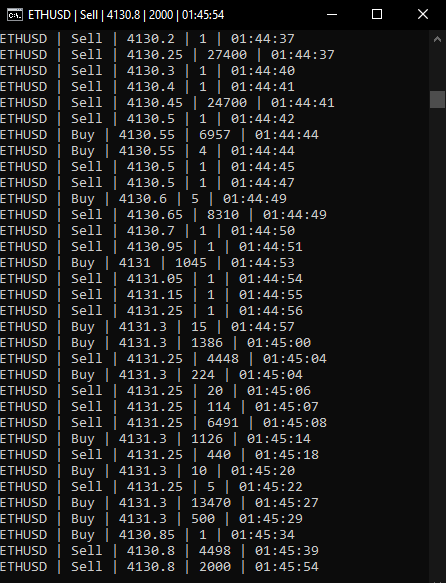
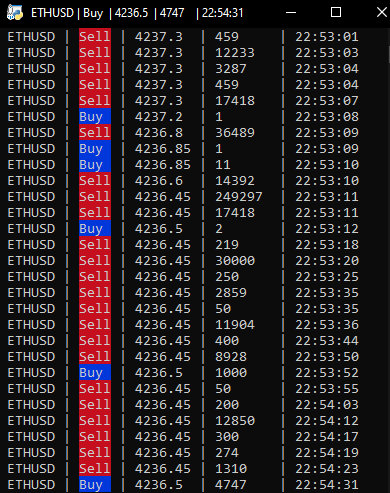
Added color to sides

diff --git a/timeofsales.py b/timeofsales.py
@@ -3,16 +3,12 @@ import json
 import pandas as pd
 import time
 import ctypes
-# import colorama
-# from colorama import Fore, init
+from colorama import init, Back
 
+init() # Colorama init
+
+# API URL
 url = "https://api.bybit.com/v2/public/trading-records?symbol=ETHUSD"
-
-payload={}
-headers = {}
-
-i = 0
-
 class Latest_Data:
         def __init__(self, id, ticker, price, qty, side, time):
             self.id = id
@@ -22,12 +18,27 @@ class Latest_Data:
             self.side = side
             self.time = time
         
-        def display(self):
-            display = (f" {self.ticker} | {self.side: <4} | {self.price: <7} | {self.qty: <7} | {self.time} ")
+        def display(self, title = False):
+            if (title == True): # Title is a normal string
+                display = (f" {self.ticker} | {self.side: <4}"
+                        f" | {self.price: <7} | {self.qty: <7}"
+                        f" | {self.time}")
+            elif (self.side == 'Buy'): # Buy Color
+                blue_buy = (Back.BLUE + self.side + ' ' + Back.RESET)
+                display = (f" {self.ticker} | {blue_buy}"
+                        f" | {self.price: <7} | {self.qty: <7}"
+                        f" | {self.time} ")
+            elif (self.side == 'Sell'): # Sell Color
+                red_sell = (Back.RED + self.side + Back.RESET)
+                display = (f" {self.ticker} | {red_sell}"
+                           f" | {self.price: <7} | {self.qty: <7}"
+                           f" | {self.time} ")
             return display
 
+# To count first loop
+i = 0
 while (i >= 0):
-    response = requests.request("GET", url, headers=headers, data=payload)
+    response = requests.request("GET", url)
     response_json = json.loads(response.text)
     latest_data = response_json['result'][0]
 
@@ -47,8 +58,8 @@ while (i >= 0):
         idprev = idmain
 
     if (idprev != idmain or i == 0):
-        print(eth_info.display())
-        ctypes.windll.kernel32.SetConsoleTitleW(eth_info.display()) # sets window title
+        print(eth_info.display(title=False))
+        ctypes.windll.kernel32.SetConsoleTitleW(eth_info.display(title=True)) # sets window title
         idprev = idmain
     elif (idprev == idmain):
         pass

diff --git a/priceladder.py b/priceladder.py
@@ -1,0 +1,7 @@
+import requests
+import json
+
+url = "https://api.bybit.com/v2/public/orderBook/L2?symbol=ETHUSD"
+
+response = requests.request("GET", url)
+response_json = json.loads(response.text)
